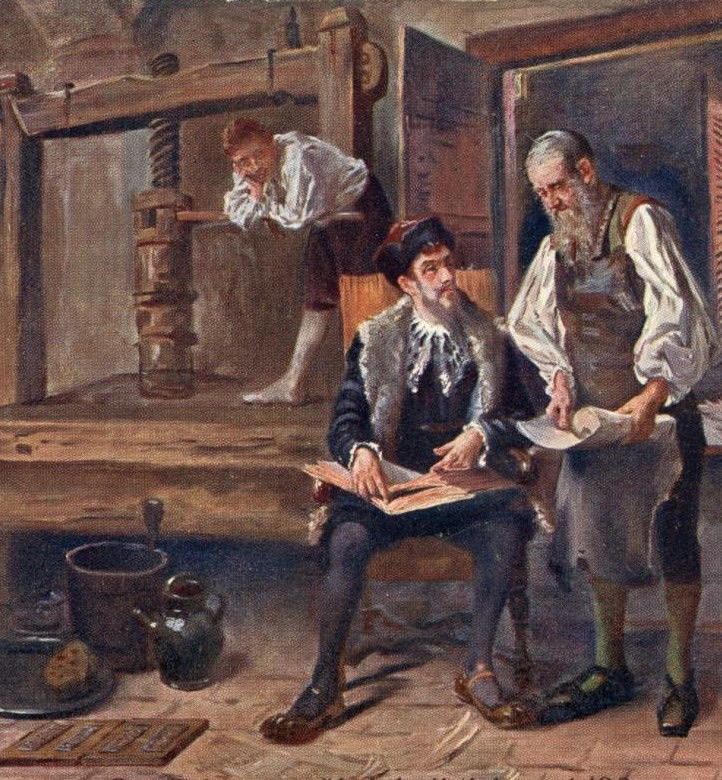
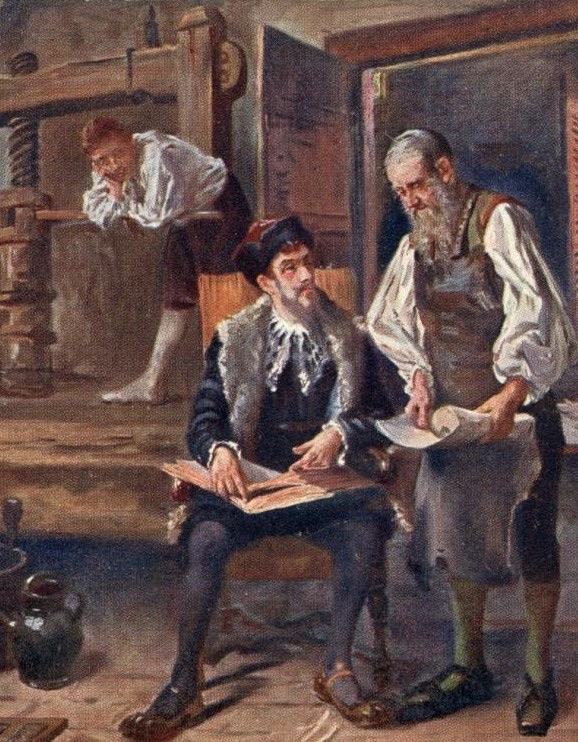
fix

diff --git a/public/course/style.css b/public/course/style.css
@@ -117,7 +117,7 @@
 .segment-half_screen_picture {
   z-index: 0;
   height: 50%;
-  background-position: bottom;
+  background-position: center;
   background-size: cover;
   display: flex;
   flex-direction: column;
